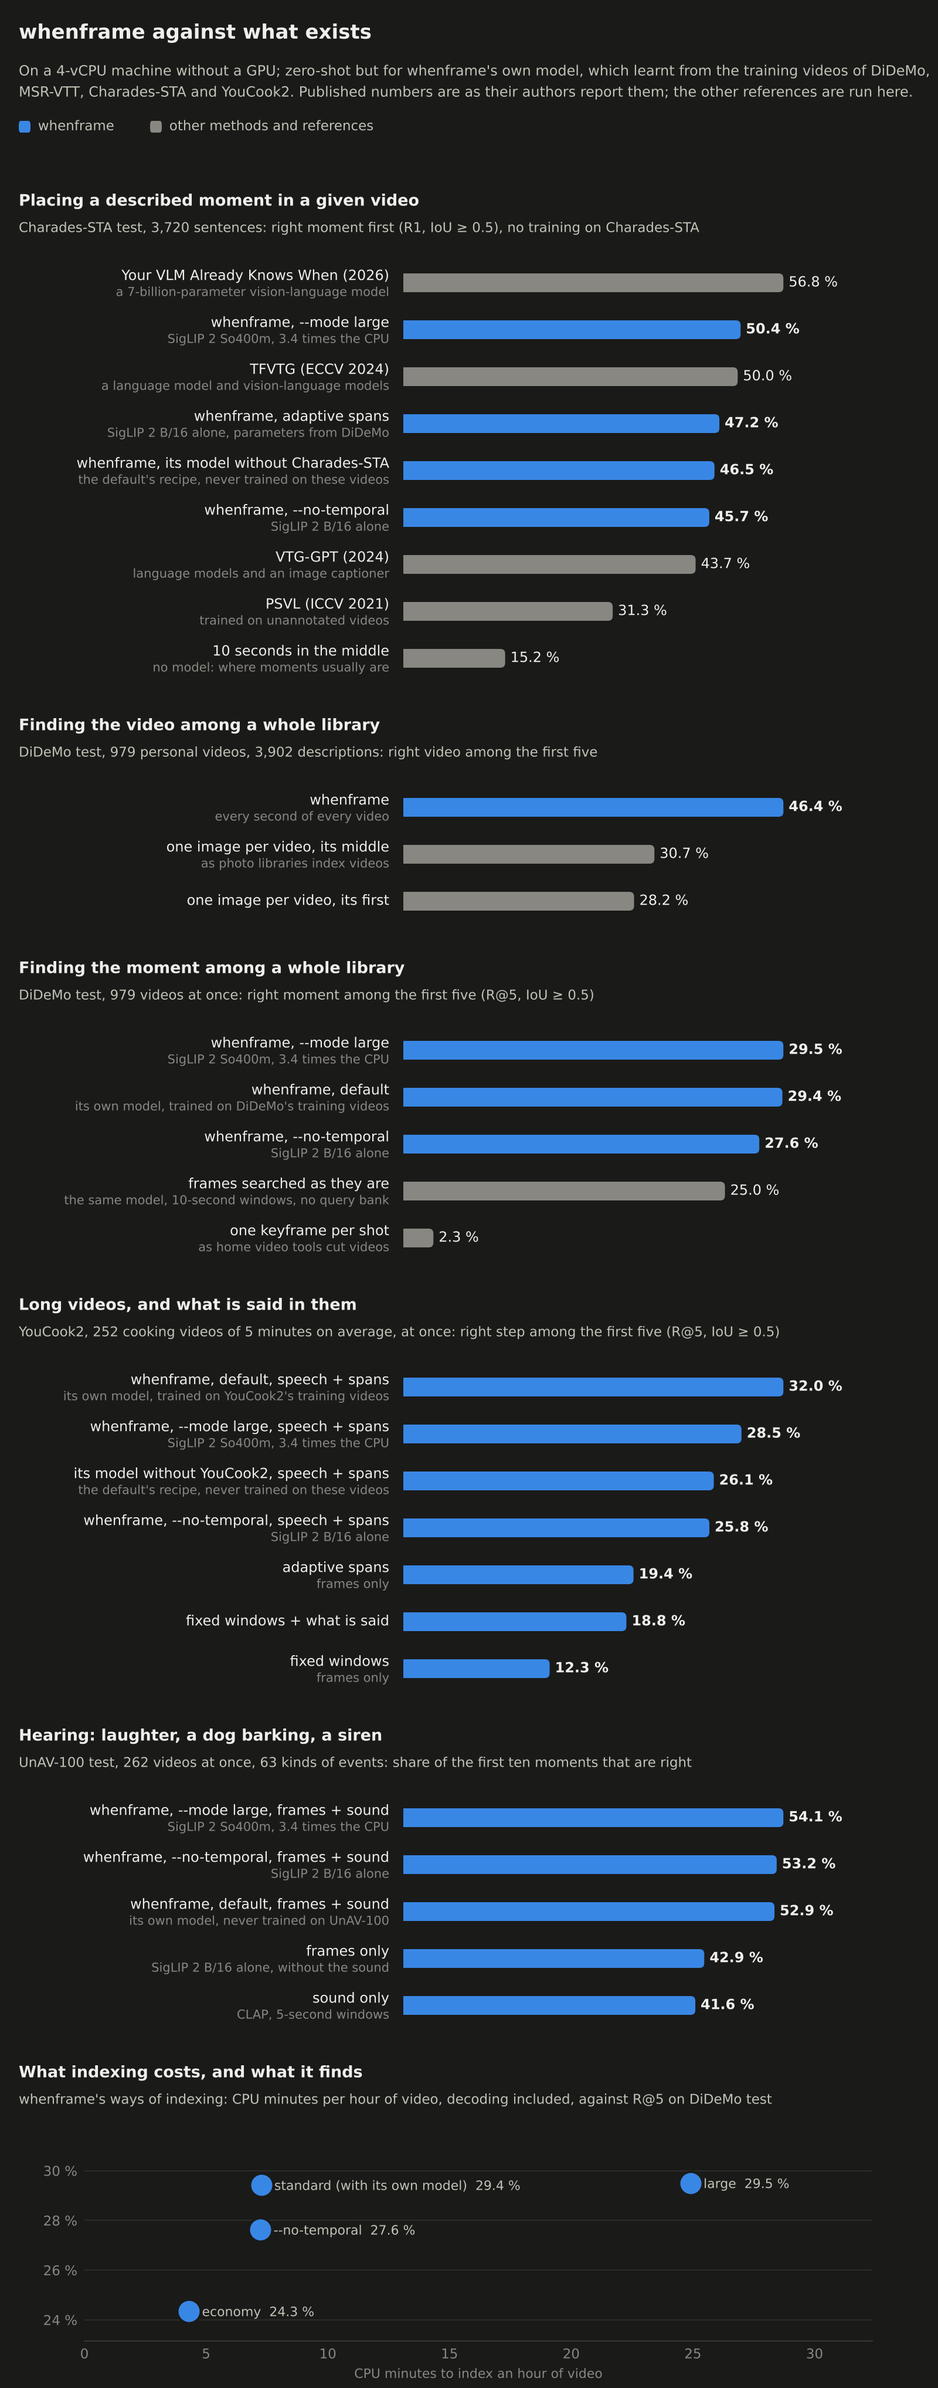
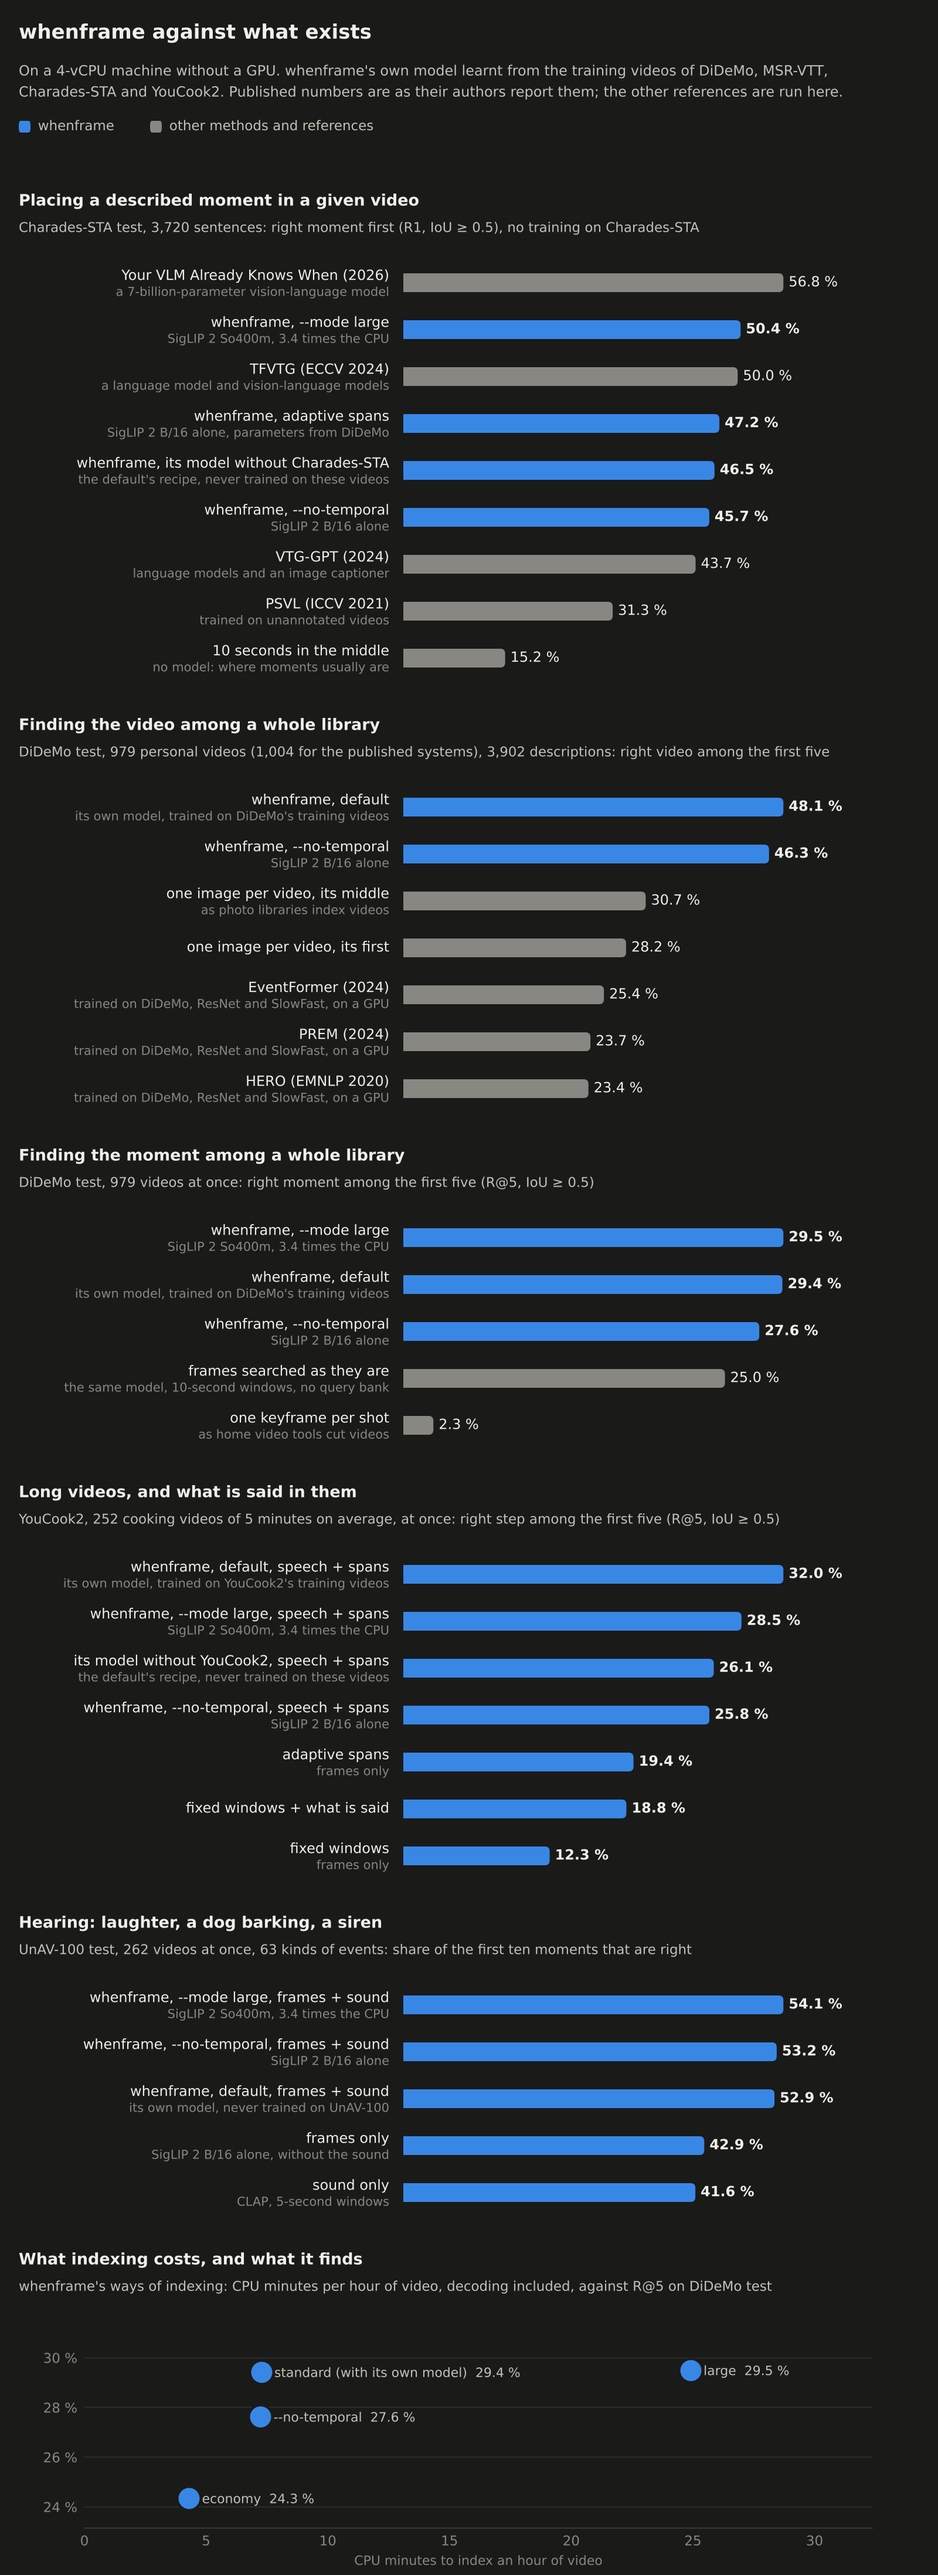
whenframe beside the systems published for searching a whole library
Video corpus moment retrieval's systems, trained on DiDeMo with the benchmark's standard features on a GPU,
report the right video among the first five for 19.4 to 25.4 % of the descriptions of DiDeMo's 1,004 test
videos (XML, ReLoCLNet, HERO, PREM, EventFormer; results/published_didemo.json, as their papers report them).
whenframe, on the 979 of those videos that could still be downloaded: 48.1 % with its own model, 46.3 %
without it, and first 25.3 % against 8.5 %. Most of the gap is SigLIP 2's (one image per video: 30.7 %).
At the level of the moment the papers disagree about the same systems, so only their own papers are
quoted; at IoU 0.7, whenframe's 10-second moments find fewer among the first hundred. The README's
headline, the results, the research page and the figure say so.

diff --git a/scripts/tables.py b/scripts/tables.py
@@ -700,6 +700,14 @@ def round7_tables() -> dict[str, str]:
         f"whenframe puts the right moment among its first five results **{pct(v3['didemo']['value'])} %** of the "
         f"time with its own model ({pct(r['base']['didemo']['value'])} % without it{large})."
     )
+    pub = RESULTS / "published_didemo.json"
+    if pub.exists():  # the right video too, beside the best system published for this search
+        best = max(x["R@5"] for x in json.loads(pub.read_text())["video_retrieval"].values())
+        video = 100 * v3["didemo"]["full"]["video"]["R@5"]
+        headline = headline[:-1] + (
+            f", and the right video among its first five **{video:.1f} %** of the time, {video / best:.1f} times as "
+            f"often as the best published system trained for this search on a GPU ({best:.1f} %)."
+        )
     if met[24]:  # the protocol's sentence, when criterion 24 is met
         headline += (
             f" At the standard mode's cost, it finds more moments than its large mode over four benchmarks (mean "
@@ -726,6 +734,38 @@ def round7_tables() -> dict[str, str]:
         [[m, f"{pct(r[n]['didemo']['value'])} %", f"{100 * r[n]['mean']:.2f}",
           "" if minutes(n) is None else f"{minutes(n):.1f}"] for m, n in modes if n in r],
     )  # fmt: skip
+    return out
+
+
+def published_tables() -> dict[str, str]:
+    """whenframe beside published systems trained to search a whole library of DiDeMo's test videos (added after
+    the test runs: results/published_didemo.json, as their authors report them)."""
+    f, f7, th = RESULTS / "published_didemo.json", RESULTS / "round7_test.json", RESULTS / "didemo_test_thumbnail.json"
+    if not (f.exists() and f7.exists()):
+        return {}
+    pub, r = json.loads(f.read_text()), json.loads(f7.read_text())
+    ks = ("R@1", "R@5", "R@10", "R@100")
+    rows = [[f"**whenframe, {m}**", *(pct(r[n]["didemo"]["full"]["video"][k]) for k in ks), seen, "CPU"]
+            for m, n, seen in (("with its own model (the default)", "v3", "yes"),
+                               ("`--no-temporal` (SigLIP 2 B/16)", "base", "no"))]  # fmt: skip
+    if th.exists():
+        t = json.loads(th.read_text())
+        rows.append(["one image per video, its middle (SigLIP 2 B/16)", pct(t["middle"]["R@1"]),
+                     pct(t["middle"]["R@5"]), pct(t["middle"]["R@10"]), "", "no", "CPU"])  # fmt: skip
+    rows += [[name, *(f"{x[k]:.1f}" for k in ks), "yes", "GPU"]
+             for name, x in sorted(pub["video_retrieval"].items(), key=lambda kv: -kv[1]["R@5"])]  # fmt: skip
+    out = {"didemo-published": table(["the right video among the first k (DiDeMo test)", "R@1", "R@5", "R@10",
+                                      "R@100", "trained on DiDeMo", "runs on"], rows)}  # fmt: skip
+    c = r["v3"]["didemo"]["full"]["corpus"]
+    moments = [["**whenframe, with its own model**", *(pct(c[f"R@{k} IoU>=0.5"]) for k in (1, 10, 100)),
+                *(pct(c[f"R@{k} IoU>=0.7"]) for k in (1, 10, 100))]]  # fmt: skip
+    for name, x in pub["moment_retrieval_original"].items():
+        if name != "about":
+            moments.append([name, *(f"{x[i][f'R@{k}']:.1f}" if i in x else "" for i in ("IoU 0.5", "IoU 0.7")
+                                    for k in (1, 10, 100))])  # fmt: skip
+    out["didemo-published-moments"] = table(["the right moment among the first k of the whole test set",
+                                             "R@1, IoU 0.5", "R@10", "R@100", "R@1, IoU 0.7", "R@10", "R@100"],
+                                            moments)  # fmt: skip
     return out
 
 
@@ -800,6 +840,7 @@ def main() -> int:
     tables.update(round5_tables())
     tables.update(round6_tables())
     tables.update(round7_tables())  # after the sixth round's: replaces the README's tables if v3 is the default
+    tables.update(published_tables())
     f2 = RESULTS / "didemo_test_round2.json"
     if f2.exists():
         tables.update(round2_tables(json.loads(f2.read_text()), json.loads(f.read_text()) if f.exists() else None))

diff --git a/scripts/benchmark_figure.py b/scripts/benchmark_figure.py
@@ -75,16 +75,24 @@ def panels() -> list[dict]:
                     "subtitle": f"Charades-STA test, {ch['queries']:,} sentences: right moment first (R1, IoU ≥ 0.5),"
                                 " no training on Charades-STA",
                     "rows": sorted(rows, key=lambda r: -r[2]), "unit": "%"})  # fmt: skip
-    th = load("didemo_test_thumbnail.json")
+    th, pub = load("didemo_test_thumbnail.json"), load("published_didemo.json")
     if th:
-        rows = [("whenframe", "every second of every video", 100 * th["default_search"]["R@5"], True),
-                ("one image per video, its middle", "as photo libraries index videos", 100 * th["middle"]["R@5"],
-                 False),
-                ("one image per video, its first", "", 100 * th["first"]["R@5"], False)]  # fmt: skip
+        rows = [("whenframe", "every second of every video", 100 * th["default_search"]["R@5"], True)]
+        if seven:  # the seventh round's test: with whenframe's own model (the default) and without it
+            video = {n: 100 * seven[n]["didemo"]["full"]["video"]["R@5"] for n in ("v3", "base")}
+            rows = [("whenframe, default", "its own model, trained on DiDeMo's training videos", video["v3"], True),
+                    ("whenframe, --no-temporal", "SigLIP 2 B/16 alone", video["base"], True)]  # fmt: skip
+        rows += [("one image per video, its middle", "as photo libraries index videos", 100 * th["middle"]["R@5"],
+                  False),
+                 ("one image per video, its first", "", 100 * th["first"]["R@5"], False)]  # fmt: skip
+        subtitle = f"DiDeMo test, {th['videos']:,} personal videos"
+        if pub:  # the three best systems published for this search, trained on DiDeMo, as their authors report them
+            best = sorted(pub["video_retrieval"].items(), key=lambda kv: -kv[1]["R@5"])[:3]
+            rows += [(name, "trained on DiDeMo, ResNet and SlowFast, on a GPU", x["R@5"], False) for name, x in best]
+            subtitle += f" ({pub['videos']:,} for the published systems)"
         out.append({"title": "Finding the video among a whole library",
-                    "subtitle": f"DiDeMo test, {th['videos']:,} personal videos, {th['queries']:,} descriptions: "
-                                "right video among the first five",
-                    "rows": rows, "unit": "%"})  # fmt: skip
+                    "subtitle": f"{subtitle}, {th['queries']:,} descriptions: right video among the first five",
+                    "rows": sorted(rows, key=lambda r: -r[2]), "unit": "%"})  # fmt: skip
     d = load("didemo_test.json")
     if d:
         rows = ours("didemo") or [
@@ -153,9 +161,9 @@ def draw(theme: str):
     fig.text(0.02, y / total, "whenframe against what exists", color=t["ink"], fontsize=17 * PX, fontweight="bold",
              va="top")  # fmt: skip
     intro = (
-        "On a 4-vCPU machine without a GPU; zero-shot but for whenframe's own model, which learnt from the training "
-        "videos of DiDeMo,\nMSR-VTT, Charades-STA and YouCook2. Published numbers are as their authors report them; "
-        "the other references are run here."
+        "On a 4-vCPU machine without a GPU. whenframe's own model learnt from the training videos of DiDeMo, "
+        "MSR-VTT,\nCharades-STA and YouCook2. Published numbers are as their authors report them; the other "
+        "references are run here."
     )
     fig.text(0.02, (y - 0.32) / total, intro, color=t["ink2"], fontsize=12 * PX, va="top", linespacing=1.5)
     key = 10 * PX / 72  # inches

diff --git a/README.md b/README.md
@@ -21,7 +21,7 @@ it happens.
 </p>
 
 <!-- table readme-headline -->
-Searching 979 personal videos at once (DiDeMo test) for 3,902 descriptions written by people, whenframe puts the right moment among its first five results **29.4 %** of the time with its own model (27.6 % without it; 29.5 % with SigLIP 2 So400m, for 3.4 times the CPU time). At the standard mode's cost, it finds more moments than its large mode over four benchmarks (mean 41.90 against 40.63, sign test p = 0.00086). Its lead is on Charades-STA and YouCook2, whose training videos it learnt from: trained without each one's videos, it finds 46.5 and 26.1 % of their moments, against 50.4 and 28.5 % for So400m. Indexing one keyframe per shot, as some home video tools do, finds it 2.3 % of the time.
+Searching 979 personal videos at once (DiDeMo test) for 3,902 descriptions written by people, whenframe puts the right moment among its first five results **29.4 %** of the time with its own model (27.6 % without it; 29.5 % with SigLIP 2 So400m, for 3.4 times the CPU time), and the right video among its first five **48.1 %** of the time, 1.9 times as often as the best published system trained for this search on a GPU (25.4 %). At the standard mode's cost, it finds more moments than its large mode over four benchmarks (mean 41.90 against 40.63, sign test p = 0.00086). Its lead is on Charades-STA and YouCook2, whose training videos it learnt from: trained without each one's videos, it finds 46.5 and 26.1 % of their moments, against 50.4 and 28.5 % for So400m. Indexing one keyframe per shot, as some home video tools do, finds it 2.3 % of the time.
 <!-- /table -->
 
 ## Use
@@ -119,13 +119,14 @@ logging every outbound connection of an indexing and search run). More in
 <p align="center">
   <picture>
     <source media="(prefers-color-scheme: dark)" srcset="https://raw.githubusercontent.com/qthullie/whenframe/main/docs/figures/benchmark-dark.png">
-    <img src="https://raw.githubusercontent.com/qthullie/whenframe/main/docs/figures/benchmark.png" alt="whenframe against what exists: on Charades-STA, without training on it, it places 45.7 to 50.4 % of the moments, between VTG-GPT (43.7 %) and a 7-billion-parameter vision-language model (56.8 %); on DiDeMo it finds the right video among the first five 46.4 % of the time against 28 to 31 % for one image per video, and the right moment 29.4 % with its own model (the default), 27.6 % without it, 29.5 % with SigLIP 2 So400m for 3.4 times the CPU time, against 2.3 % for one keyframe per shot; on YouCook2, speech and adaptive spans reach 25.8 to 32.0 %, the most with its own model, which learnt from YouCook2's training videos (26.1 % trained without them); on UnAV-100, frames and sound 52.9 to 54.1 %" width="800">
+    <img src="https://raw.githubusercontent.com/qthullie/whenframe/main/docs/figures/benchmark.png" alt="whenframe against what exists: on Charades-STA, without training on it, it places 45.7 to 50.4 % of the moments, between VTG-GPT (43.7 %) and a 7-billion-parameter vision-language model (56.8 %); on DiDeMo it finds the right video among the first five 48.1 % of the time with its own model, against 23.4 to 25.4 % for the best published systems trained on DiDeMo for this search and 28 to 31 % for one image per video, and the right moment 29.4 % with its own model (the default), 27.6 % without it, 29.5 % with SigLIP 2 So400m for 3.4 times the CPU time, against 2.3 % for one keyframe per shot; on YouCook2, speech and adaptive spans reach 25.8 to 32.0 %, the most with its own model, which learnt from YouCook2's training videos (26.1 % trained without them); on UnAV-100, frames and sound 52.9 to 54.1 %" width="800">
   </picture>
 </p>
 
 Beside published zero-shot methods, on the one benchmark and metric they
-share, and beside the ways home tools index videos, run here on the same
-videos ([docs/RESEARCH.md](https://github.com/qthullie/whenframe/blob/main/docs/RESEARCH.md) gives the sources).
+share; beside published systems trained on DiDeMo to search a whole library
+of its videos; and beside the ways home tools index videos, run here on the
+same videos ([docs/RESEARCH.md](https://github.com/qthullie/whenframe/blob/main/docs/RESEARCH.md) and [docs/RESULTS.md](https://github.com/qthullie/whenframe/blob/main/docs/RESULTS.md) give the sources).
 
 DiDeMo test split, with the protocol fixed in advance and every change to it
 listed ([docs/PROTOCOL.md](https://github.com/qthullie/whenframe/blob/main/docs/PROTOCOL.md)). The numbers on this page are

diff --git a/docs/RESULTS.md b/docs/RESULTS.md
@@ -932,3 +932,53 @@ frame, with weight 0.005, and the sound with weight 2; B/32 what is said up
 to 5 seconds around a frame, sound weight 1.5; So400m sound weight 1.5. The
 sixth round's numbers above are unchanged: its candidates were measured with
 their own settings then too.
+
+## Beside published systems: finding the video in a whole library
+
+Added after the test runs, deciding nothing. Finding, for a description, the
+right moment among all the videos of a library is a published task, video
+corpus moment retrieval (Escorcia et al., 2019; Lei et al., ECCV 2020). Its
+systems are trained for it on DiDeMo's training set, with the benchmark's
+standard features (ResNet and SlowFast frames, RoBERTa descriptions), on a
+GPU; their papers report the right video among the first k for each
+description of DiDeMo's 1,004 test videos (`results/published_didemo.json`,
+as their authors report them). whenframe's numbers are the seventh round's
+test, on the 979 of those videos that could still be downloaded (2.5 % fewer
+to tell apart).
+
+<!-- table didemo-published -->
+| the right video among the first k (DiDeMo test) | R@1 | R@5 | R@10 | R@100 | trained on DiDeMo | runs on |
+|---|---|---|---|---|---|---|
+| **whenframe, with its own model (the default)** | 25.3 | 48.1 | 57.7 | 79.5 | yes | CPU |
+| **whenframe, `--no-temporal` (SigLIP 2 B/16)** | 25.1 | 46.3 | 55.8 | 77.7 | no | CPU |
+| one image per video, its middle (SigLIP 2 B/16) | 14.6 | 30.7 | 38.6 |  | no | CPU |
+| EventFormer (2024) | 8.4 | 25.4 | 35.8 | 77.7 | yes | GPU |
+| PREM (2024) | 8.0 | 23.7 | 34.6 | 75.8 | yes | GPU |
+| HERO (EMNLP 2020) | 8.5 | 23.4 | 34.9 | 75.4 | yes | GPU |
+| XML (ECCV 2020) | 6.2 | 19.4 | 29.9 | 74.2 | yes | GPU |
+| ReLoCLNet (SIGIR 2021) | 5.5 | 18.2 | 28.0 | 71.4 | yes | GPU |
+<!-- /table -->
+
+whenframe puts the right video first 25.3 % of the time, three times as
+often as the best of them, and among the first five 48.1 %, 1.9 times as
+often. Most of that gap is SigLIP 2's: one image of each video, embedded by
+SigLIP 2 and searched alone, already does better than each of them (30.7 %
+among the first five). By the hundredth result they come close (75 to 78 %,
+against 79.5 %).
+
+<!-- table didemo-published-moments -->
+| the right moment among the first k of the whole test set | R@1, IoU 0.5 | R@10 | R@100 | R@1, IoU 0.7 | R@10 | R@100 |
+|---|---|---|---|---|---|---|
+| **whenframe, with its own model** | 14.6 | 36.6 | 57.4 | 3.1 | 7.0 | 10.4 |
+| XML (ECCV 2020) | 2.3 | 10.4 | 34.5 | 1.6 | 6.7 | 25.4 |
+| HERO (EMNLP 2020) |  |  |  | 2.1 | 11.4 | 36.1 |
+<!-- /table -->
+
+At the level of the moment, the papers disagree about the same systems
+(CONQUER's first moment at IoU 0.5: 13.57 % in one, 3.31 % in another), so
+only the systems' own papers are quoted. At IoU 0.5, whenframe puts the right
+moment first 14.6 % of the time, against 2.3 % for XML. At IoU 0.7, it still
+puts it first more often (3.1 %, against 1.6 and 2.1 %), but XML and HERO
+find more among their first hundred: whenframe's moments last 10 seconds, so
+they overlap DiDeMo's 5-second segments at IoU 0.5 at most, a length chosen
+to play a moment rather than to mark its boundaries.

diff --git a/docs/RESEARCH.md b/docs/RESEARCH.md
@@ -122,6 +122,12 @@ measured accuracy).
   under a third of its CPU time, its lead being on the two benchmarks whose
   training videos the model learnt from; on the others, So400m finds as much
   (DiDeMo) or more (UnAV-100) ([RESULTS.md](RESULTS.md), seventh round).
+- Finds the right video in a whole library of DiDeMo's test videos 1.9 times
+  as often as the systems published for this search, trained on DiDeMo on a
+  GPU (among the first five: 48.1 % against 25.4 % for EventFormer, 2024),
+  most of the gap being SigLIP 2's; at the level of the moment, the papers
+  disagree about the same systems, and only theirs are quoted
+  ([RESULTS.md](RESULTS.md), "Beside published systems").
 - Measures all of it on DiDeMo, personal Flickr videos, with the protocol fixed
   in advance ([PROTOCOL.md](PROTOCOL.md)), against a shot-based baseline in the
   spirit of current home tools, with the CPU cost of indexing and searching.

diff --git a/CHANGELOG.md b/CHANGELOG.md
@@ -16,6 +16,11 @@
   So400m for 3.4 times the CPU time. Its lead is on Charades-STA and YouCook2,
   whose training videos it learnt from: trained without each one's videos,
   46.5 and 26.1 %, against 50.4 and 28.5 % for So400m.
+- Beside the systems published for searching a whole library of DiDeMo's
+  test videos, trained on DiDeMo on a GPU: whenframe puts the right video
+  among its first five 48.1 % of the time, against 25.4 % for the best of
+  them (EventFormer, 2024), and first 25.3 % against 8.5 %
+  (`results/published_didemo.json`, as their authors report them).
 - The sixth round compares SigLIP 2 B/32, B/16, So400m and B/16 with the
   model, on the same frames of DiDeMo, Charades-STA, YouCook2 and UnAV-100:
   mean of the four primary metrics 36.80, 38.07, 40.63 and 38.65, each step
